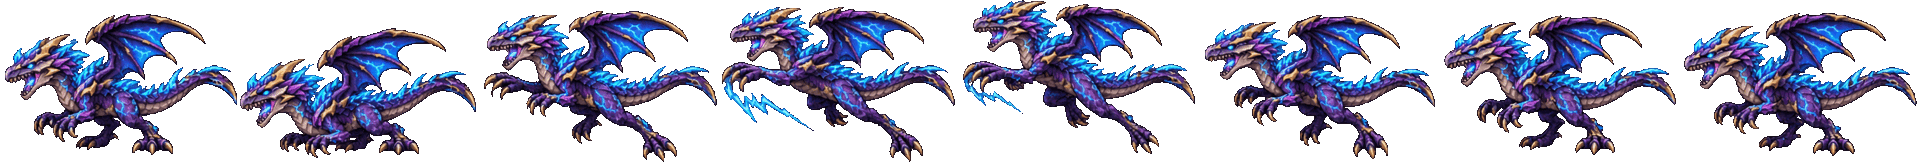
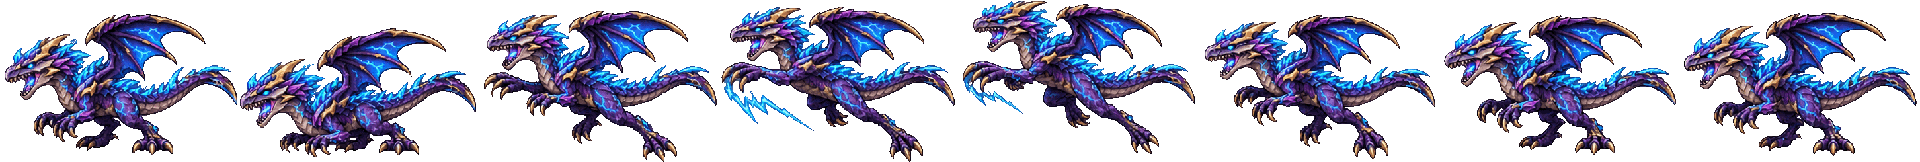
GRIMGE: Primals in three growth stages with walk and attack animations, one art-pixel size for every creature, hard pixels (user)
- Primals (wolf, turtle, ape, dragon): fierce new designs in three stages (approved by the user), walk/fly + attack
  sheets per stage at native art pixels (primal_anim.js); the old kit / placeholders stay as fallback while loading
- ART_PX (world.js): one on-screen art-pixel size derived from the reference body (116 native px at hero height) —
  Primal and dino-dragon sheets are drawn at exactly this scale, so every creature shows the characters' pixel size
- hard pixels: no canvas smoothing for creature sheets, nearest-neighbour builds without dithering
- art tools: pixel_snap.cjs auto grid detection (square pixels, hard alpha), prep_layers.cjs (face zone only for the
  skin rule, transparent backgrounds), hair_transform.cjs (every hair asset in every transformation's colours + glowing
  eyes), gif_sheets.cjs (GIFs -> shared-box sheets at a native body height)

diff --git a/public/src/primal_anim.js b/public/src/primal_anim.js
@@ -1,0 +1,37 @@
+// GRIMGE Prototype — animated Primals (wolf, turtle, ape, dragon) in their three growth stages (user, 21 Nov 2026: Primals
+// "in den 3 Entwicklungsstufen mit Animationen", fierce not cute, hard pixels). Walk/fly + attack sheets from Higgsfield,
+// built with art/authoring/gif_sheets.cjs: 8 frames side by side, facing left, one shared crop box per stage so walk and
+// attack line up. PRIMAL_ANIM: per <archetype><stage> the frame size and the moving body's box inside a frame.
+export const PRIMAL_ANIM = Object.freeze(/*META*/{"wolf1":{"frames":{"walk":8,"attack":8},"fw":78,"fh":44,"bx":3,"by":0,"bw":75,"bh":44},"wolf2":{"frames":{"walk":8,"attack":8},"fw":112,"fh":78,"bx":2,"by":1,"bw":107,"bh":76},"wolf3":{"frames":{"walk":8,"attack":8},"fw":175,"fh":127,"bx":4,"by":2,"bw":170,"bh":125},"turtle1":{"frames":{"walk":8,"attack":8},"fw":63,"fh":39,"bx":2,"by":0,"bw":61,"bh":39},"turtle2":{"frames":{"walk":8,"attack":8},"fw":103,"fh":75,"bx":5,"by":0,"bw":97,"bh":73},"turtle3":{"frames":{"walk":8,"attack":8},"fw":175,"fh":137,"bx":7,"by":5,"bw":165,"bh":130},"ape1":{"frames":{"walk":8,"attack":8},"fw":69,"fh":52,"bx":1,"by":1,"bw":68,"bh":51},"ape2":{"frames":{"walk":8,"attack":8},"fw":117,"fh":88,"bx":0,"by":2,"bw":117,"bh":86},"ape3":{"frames":{"walk":8,"attack":8},"fw":189,"fh":152,"bx":0,"by":2,"bw":189,"bh":146},"dragon1":{"frames":{"walk":8,"attack":8},"fw":69,"fh":59,"bx":4,"by":2,"bw":65,"bh":57},"dragon2":{"frames":{"walk":8,"attack":8},"fw":126,"fh":98,"bx":2,"by":0,"bw":122,"bh":97},"dragon3":{"frames":{"walk":8,"attack":8},"fw":213,"fh":159,"bx":14,"by":0,"bw":199,"bh":157}}/*END*/);
+import { ART_PX } from './world.js';
+// The sheets are native art pixels (gif_sheets.cjs hNNN): drawn at ART_PX they show the characters' pixel size; a rider on
+// a young Primal swells it to riding size (whole-pixel steps).
+export const PRIMAL_ATTACK_TIME = .5;
+const SHEETS = new Map();
+function sheet(key) {
+  if (SHEETS.has(key)) return SHEETS.get(key); const I = globalThis.Image; const im = typeof I === 'function' ? new I() : null;
+  if (im) im.src = `assets/creatures/primals/anim/${key}.png`; SHEETS.set(key, im); return im;
+}
+const ready = (im) => !!im && im.complete && (im.naturalWidth || im.width) > 0;
+// The pose: the strike while an attack / breath is on, the walk (fly) while moving, the first frame while standing.
+export function primalPose(p) {
+  const striking = !!p.attack || (p.breathT ?? 0) > 0;
+  if (striking && !(p.atkStart >= 0 && p.animTime - p.atkStart < PRIMAL_ATTACK_TIME)) p.atkStart = p.animTime;
+  if (!striking && p.atkStart >= 0 && p.animTime - p.atkStart >= PRIMAL_ATTACK_TIME) p.atkStart = -1;
+  const since = p.atkStart >= 0 ? p.animTime - p.atkStart : -1;
+  if (since >= 0 && since < PRIMAL_ATTACK_TIME) return { kind: 'attack', frame: Math.min(7, Math.floor(since / PRIMAL_ATTACK_TIME * 8)) };
+  if (p.state === 'run' || p.archetype === 'dragon') return { kind: 'walk', frame: Math.floor((p.animTime ?? 0) * 10) % 8 }; /* the dragon always beats its wings */
+  return { kind: 'walk', frame: 0 };
+}
+export const primalScale = (p) => ART_PX * (p.rider && (p.stage ?? 1) < 3 ? 1.5 : 1);
+// Draws the body; false while loading or without sheets (the caller draws its fallback).
+export function drawPrimalAnim(ctx, p) {
+  const key = p.archetype + (p.stage ?? 1); const M = PRIMAL_ANIM[key]; if (!M) return false;
+  const pose = primalPose(p); let im = sheet(key + '_' + pose.kind);
+  if (!ready(im)) { im = sheet(key + '_walk'); pose.frame = 0; if (!ready(im)) return false; }
+  const k = primalScale(p); const f = p.facing || 1;
+  ctx.save(); if (p.hitFlash > 0) ctx.globalAlpha = .7;
+  ctx.translate(Math.round(p.x), Math.round(p.y)); if (f > 0) ctx.scale(-1, 1); ctx.imageSmoothingEnabled = false; /* hard pixels */
+  ctx.drawImage(im, pose.frame * M.fw, 0, M.fw, M.fh, -(M.bx + M.bw / 2) * k, -(M.by + M.bh) * k, M.fw * k, M.fh * k);
+  ctx.restore(); return true;
+}

diff --git a/public/src/kk_dino_anim.js b/public/src/kk_dino_anim.js
@@ -2,7 +2,8 @@
 // bestiary sprites (Higgsfield, 21 Nov 2026): 8 frames side by side, facing left like the stills, one shared crop box per
 // creature so walk and attack line up. DINO_ANIM holds per element the frame size and the walking body's box inside a
 // frame: the renderer scales the body to the unit's height and stands it on its feet at the unit's position.
-export const DINO_ANIM = Object.freeze(/*META*/{"ignis":{"frames":8,"fw":246,"fh":156,"bx":4,"by":0,"bw":242,"bh":156},"ventus":{"frames":8,"fw":236,"fh":130,"bx":0,"by":0,"bw":234,"bh":127},"fulgur":{"frames":8,"fw":240,"fh":162,"bx":6,"by":14,"bw":234,"bh":134},"terra":{"frames":8,"fw":245,"fh":154,"bx":4,"by":0,"bw":241,"bh":146},"aqua":{"frames":8,"fw":244,"fh":154,"bx":0,"by":0,"bw":243,"bh":154},"frost":{"frames":8,"fw":242,"fh":154,"bx":0,"by":0,"bw":242,"bh":154},"bestia":{"frames":8,"fw":244,"fh":168,"bx":0,"by":0,"bw":244,"bh":168},"construct":{"frames":8,"fw":249,"fh":159,"bx":0,"by":3,"bw":249,"bh":151},"void":{"frames":8,"fw":240,"fh":173,"bx":0,"by":6,"bw":240,"bh":162},"lux":{"frames":8,"fw":244,"fh":176,"bx":0,"by":13,"bw":242,"bh":163},"natura":{"frames":8,"fw":244,"fh":176,"bx":5,"by":4,"bw":239,"bh":172},"ward":{"frames":8,"fw":249,"fh":177,"bx":4,"by":0,"bw":245,"bh":177},"umbra":{"frames":8,"fw":241,"fh":157,"bx":0,"by":0,"bw":241,"bh":157}}/*END*/);
+import { ART_PX } from './world.js';
+export const DINO_ANIM = Object.freeze(/*META*/{"ignis":{"frames":8,"fw":246,"fh":156,"bx":6,"by":1,"bw":240,"bh":155},"ventus":{"frames":8,"fw":236,"fh":130,"bx":2,"by":0,"bw":231,"bh":125},"fulgur":{"frames":8,"fw":240,"fh":162,"bx":7,"by":15,"bw":233,"bh":131},"terra":{"frames":8,"fw":245,"fh":154,"bx":5,"by":0,"bw":238,"bh":145},"aqua":{"frames":8,"fw":244,"fh":154,"bx":1,"by":1,"bw":240,"bh":152},"frost":{"frames":8,"fw":242,"fh":154,"bx":0,"by":0,"bw":242,"bh":154},"bestia":{"frames":8,"fw":244,"fh":168,"bx":1,"by":0,"bw":243,"bh":168},"construct":{"frames":8,"fw":249,"fh":159,"bx":0,"by":5,"bw":249,"bh":147},"void":{"frames":8,"fw":240,"fh":173,"bx":0,"by":8,"bw":240,"bh":158},"lux":{"frames":8,"fw":244,"fh":176,"bx":1,"by":15,"bw":239,"bh":161},"natura":{"frames":8,"fw":244,"fh":176,"bx":7,"by":6,"bw":237,"bh":168},"ward":{"frames":8,"fw":249,"fh":177,"bx":5,"by":0,"bw":244,"bh":177},"umbra":{"frames":8,"fw":241,"fh":157,"bx":2,"by":0,"bw":239,"bh":157}}/*END*/);
 export const DINO_ATTACK_TIME = .6; /* seconds the strike sheet plays */
 const WALK_FPS = 10;
 const SHEETS = new Map();
@@ -26,10 +27,10 @@ export function drawDinoAnim(ctx, u, h, f) {
   const el = u.rec?.dino; const M = DINO_ANIM[el]; if (!M) return false;
   const pose = dinoPose(u); let im = sheet(el, pose.kind);
   if (!ready(im)) { im = sheet(el, 'walk'); pose.frame = 0; if (!ready(im)) return false; }
-  const k = h / M.bh; const bob = pose.kind === 'walk' && u.state !== 'run' ? Math.sin((u.animTime ?? 0) * 2.5) * 1.5 : 0;
+  const k = ART_PX * (h >= 150 ? 1.25 : 1); /* the one art-pixel size (world.js); wild / boss dino-dragons a quarter bigger */ const bob = pose.kind === 'walk' && u.state !== 'run' ? Math.sin((u.animTime ?? 0) * 2.5) * 1.5 : 0;
   ctx.save(); ctx.fillStyle = 'rgba(0,0,0,.3)'; ctx.beginPath(); ctx.ellipse(u.x, u.y + 2, M.bw * k * .4, 9, 0, 0, Math.PI * 2); ctx.fill();
   if (u.hitFlash > 0) ctx.globalAlpha = .7;
-  ctx.translate(u.x, u.y + bob); if (f > 0) ctx.scale(-1, 1); ctx.imageSmoothingEnabled = true;
+  ctx.translate(Math.round(u.x), Math.round(u.y + bob)); if (f > 0) ctx.scale(-1, 1); ctx.imageSmoothingEnabled = false; /* hard pixels (user: nothing soft) */
   ctx.drawImage(im, pose.frame * M.fw, 0, M.fw, M.fh, -(M.bx + M.bw / 2) * k, -(M.by + M.bh) * k, M.fw * k, M.fh * k);
   ctx.restore(); return true;
 }

diff --git a/public/src/kk_army.js b/public/src/kk_army.js
@@ -57,7 +57,7 @@ function renderDino(ctx, u) {
     const im = dinoImage(u.rec.dino); if (!im || !(im.naturalWidth || im.width) || !im.complete) return false;
     const w = h * (im.naturalWidth || im.width) / (im.naturalHeight || im.height); const bob = Math.sin((u.animTime ?? 0) * (u.state === 'run' ? 9 : 2.5)) * (u.state === 'run' ? 3 : 1.5); const lunge = u.state === 'attack' ? 10 : 0;
     ctx.save(); ctx.fillStyle = 'rgba(0,0,0,.3)'; ctx.beginPath(); ctx.ellipse(u.x, u.y + 2, w * .36, 9, 0, 0, Math.PI * 2); ctx.fill();
-    if (u.hitFlash > 0) ctx.globalAlpha = .7; ctx.translate(u.x + f * lunge, u.y + bob); if (f > 0) ctx.scale(-1, 1); ctx.imageSmoothingEnabled = true; ctx.drawImage(im, -w / 2, -h, w, h); ctx.restore();
+    if (u.hitFlash > 0) ctx.globalAlpha = .7; ctx.translate(u.x + f * lunge, u.y + bob); if (f > 0) ctx.scale(-1, 1); ctx.imageSmoothingEnabled = false; /* hard pixels */ ctx.drawImage(im, -w / 2, -h, w, h); ctx.restore();
   }
   const by = u.y - h - 12; ctx.fillStyle = 'rgba(0,0,0,.7)'; ctx.fillRect(Math.round(u.x - 36), Math.round(by), 72, 6); ctx.fillStyle = u.team === 'blue' ? '#7bd66b' : '#ff5050'; ctx.fillRect(Math.round(u.x - 35), Math.round(by + 1), 70 * Math.max(0, u.hp / u.maxHp), 4);
   ctx.font = 'bold 10px monospace'; ctx.textAlign = 'center'; ctx.fillStyle = elementColor(u.rec.dino); ctx.fillText(u.rec.name ?? dinoName(u.rec.dino), u.x, by - 4); return true;

diff --git a/public/src/primals.js b/public/src/primals.js
@@ -30,6 +30,7 @@
 // damage are scaled ×3 to the prototype's health scale (Wizard 320 HP vs.
 // Unity 100).
 import { audio } from './audio.js';
+import { drawPrimalAnim } from './primal_anim.js'; // animated Primal stages
 import { combat } from './combat.js';
 import { GroundEntity, groundDistance } from './world.js';
 import { SIEGE_ZONES } from './siege_match.js';
@@ -412,6 +413,7 @@ export class PrimalCompanion extends GroundEntity {
       ctx.beginPath(); ctx.arc(x, y - 18, 24, 0, Math.PI * 2); ctx.stroke();
     }
     ctx.globalCompositeOperation = 'source-over';
+    if (drawPrimalAnim(ctx, this)) { ctx.restore(); this.renderHealth(ctx); return; } /* the animated stage sheets (primal_anim.js); the kit / placeholders below while they load */
     if (this.archetype === 'dragon' && this.renderDragon(ctx)) { ctx.restore(); this.renderHealth(ctx); return; }
     if (this.archetype !== 'dragon' && this.renderBody(ctx)) { ctx.restore(); this.renderHealth(ctx); return; }
     // Ridden, a ground Primal swells to riding size (the rider sits on its back).

diff --git a/public/src/world.js b/public/src/world.js
@@ -16,6 +16,11 @@ export const ENTITY_VISUALS = Object.freeze({
   minionColliderWidth: 20,
   minionColliderHeight: 36
 });
+// One art pixel on screen (user, 21 Nov 2026: "alle Kreaturen pixelperfekt, dass alles denselben Look hat"): the reference
+// body is 116 native pixels tall and shows at the hero height, so every native-resolution sprite sheet (creatures, Primals,
+// dino-dragons) is drawn with exactly this scale — the same pixel size everywhere instead of a height per creature.
+export const BODY_NATIVE_HEIGHT = 116;
+export const ART_PX = ENTITY_VISUALS.heroHeight / BODY_NATIVE_HEIGHT;
 
 export const ARENA_LAYOUT = Object.freeze({
   width: VIEWPORT.width,
